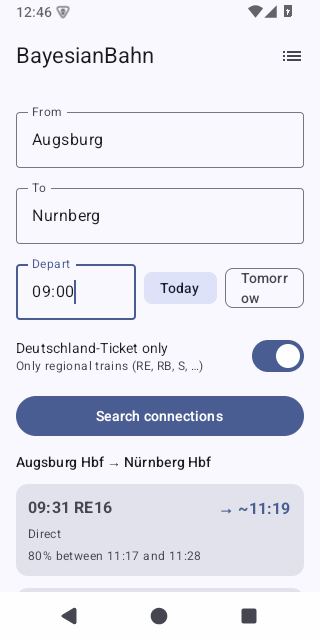
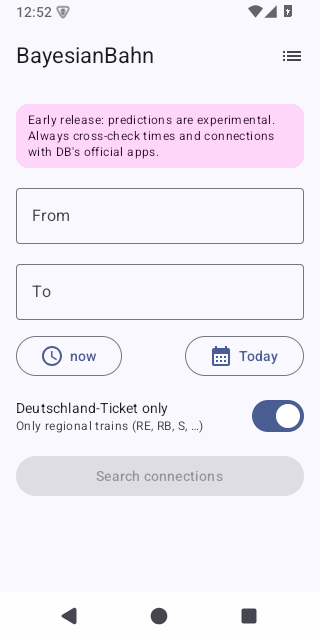
Prominent early-release disclaimer
Home screen banner, README, store description, and changelog all state
that predictions are experimental and must be cross-checked with DB's
official apps.

Claude-Session: https://claude.ai/code/session_01Uuc17uFNtbiYVko4QxwAvE

diff --git a/app/src/main/java/io/github/derweh/bayesianbahn/ui/JourneyScreen.kt b/app/src/main/java/io/github/derweh/bayesianbahn/ui/JourneyScreen.kt
@@ -98,6 +98,19 @@ fun JourneyScreen(viewModel: AppViewModel) {
                 .verticalScroll(rememberScrollState()).padding(16.dp),
             verticalArrangement = Arrangement.spacedBy(12.dp),
         ) {
+            Surface(
+                shape = MaterialTheme.shapes.medium,
+                color = MaterialTheme.colorScheme.tertiaryContainer,
+                modifier = Modifier.fillMaxWidth(),
+            ) {
+                Text(
+                    "Early release: predictions are experimental. Always " +
+                        "cross-check times and connections with DB's official apps.",
+                    Modifier.padding(horizontal = 12.dp, vertical = 8.dp),
+                    style = MaterialTheme.typography.bodySmall,
+                    color = MaterialTheme.colorScheme.onTertiaryContainer,
+                )
+            }
             StationSuggestField(
                 value = from,
                 onValueChange = { from = it },

diff --git a/CHANGELOG.md b/CHANGELOG.md
@@ -7,7 +7,8 @@ fixes; expect breaking changes between minors until 1.0).
 
 ## [0.1.0] - 2026-07-19
 
-First draft release.
+First draft release. Predictions are experimental — always cross-check
+times and connections with DB's official apps.
 
 ### Added
 - From/to journey search with direct trains and one-transfer connections;

diff --git a/README.md b/README.md
@@ -3,6 +3,9 @@
 Empirical arrival-time predictions for Deutsche Bahn trains — as a
 **distribution**, not a point estimate.
 
+> **Early release.** Predictions are experimental — always cross-check
+> times and connections with DB's official apps before relying on them.
+
 Enter from, to and a departure time (future trips included): the app finds
 direct trains and one-transfer connections and predicts when you will
 *actually* arrive — median arrival, an 80% credible interval, the full